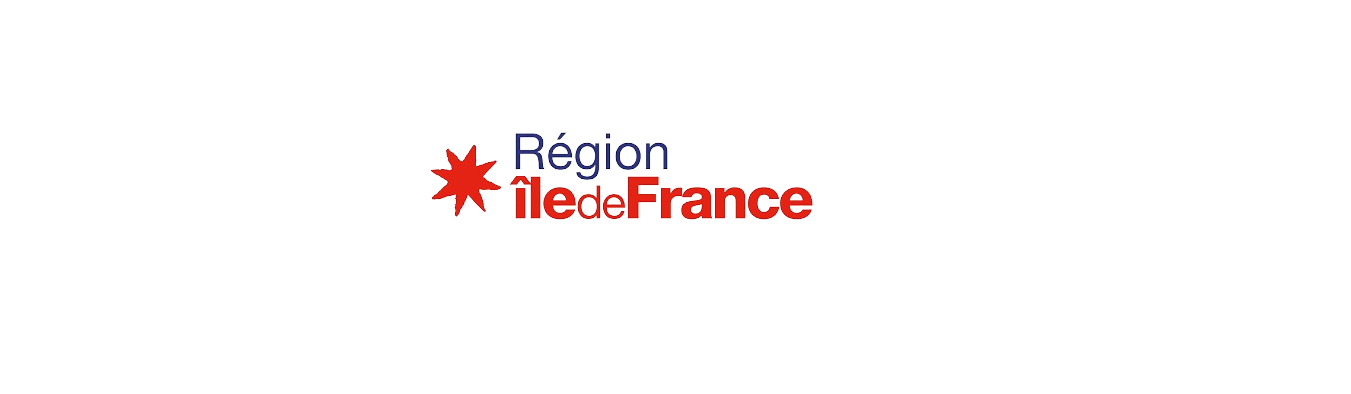
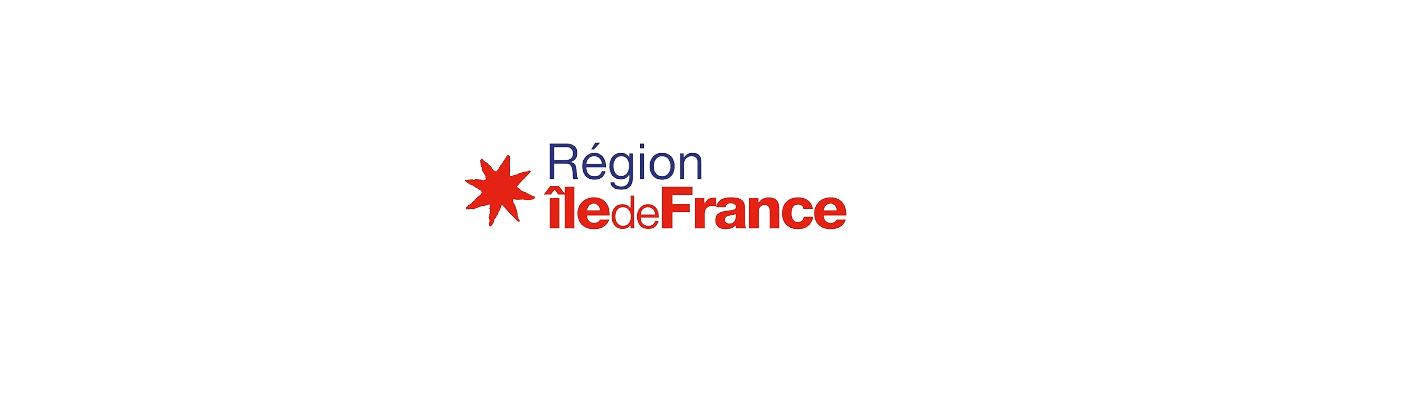
Partie Financement et partenaires

Changed region(s): [[0.3109, 0.335, 0.6218, 0.5787]]

diff --git a/index.html b/index.html
@@ -258,69 +258,78 @@
         <br></br>
     </div>
 </div>
-<div class="finance-paiement">
-    <div class="wrapper">
-        <h2 class="TitreFinancement">NOS FINANCEMENTS</h2>
+<div class="wrapper-container">
+    <div class="finance-paiement">
+        <div class="wrapper">
+            <h2>Nos Options de Financement</h2>
 
-        <ul class="carousel">
-            <li class="card">
-                <div class="img"><img src="./img/gallery/IMG_2230.png" alt="image CPF" draggable="false"></div>
-                <h2>Comptre formation</h2>
-            </li>
-            <li class="card">
-                <div class="img"><img src="./img/gallery/IMG_2231.png" alt="image pole emploi" draggable="false"></div>
-                <h2>Pôle emploi</h2>
-            </li>
-            <li class="card">
-                <div class="img"><img src="./img/gallery/IMG_2232.png" alt="image permis 1e/j" draggable="false"></div>
-                <h2>Permis 1€ par jour</h2>
-            </li>
-            <li class="card">
-                <div class="img"><img src="./img/gallery/IMG_2234.PNG" alt="image region idf" draggable="false"></div>
-                <h2>Région Île-de-France</h2>
-            </li>
-            <li class="card">
-                <div class="img"><img src="./img/gallery/IMG_2235.png" alt="image paiement 3x sans frais" draggable="false"></div>
-                <h2>Paiement 3x sans frais</h2>
-            </li>
-        </ul>
-        <i id="left" class="fa-solid fa-angle-left"></i>
-        <i id="right" class="fa-solid fa-angle-right"></i>
+            <ul class="carousel">
+                <li class="card">
+                    <div class="img"><img src="./img/gallery/IMG_2230.png" alt="image CPF" draggable="false"></div>
+                    <h2>Compte formation</h2>
+                </li>
+                <li class="card">
+                    <div class="img"><img src="./img/gallery/IMG_2231.png" alt="image pole emploi" draggable="false"></div>
+                    <h2>Pôle emploi</h2>
+                </li>
+                <li class="card">
+                    <div class="img"><img src="./img/gallery/IMG_2232.png" alt="image permis 1e/j" draggable="false"></div>
+                    <h2>Permis 1€ par jour</h2>
+                </li>
+                <li class="card">
+                    <div class="img"><img src="./img/gallery/logo-idf-2019.jpg.png" alt="image region idf" draggable="false"></div>
+                    <h2>Région Île-de-France</h2>
+                </li>
+                <li class="card">
+                    <div class="img"><img src="./img/gallery/IMG_2235.png" alt="image paiement 3x sans frais" draggable="false"></div>
+                    <h2>Paiement 3x sans frais</h2>
+                </li>
+            </ul>
+            <i id="left" class="fa-solid fa-angle-left"></i>
+            <i id="right" class="fa-solid fa-angle-right"></i>
+        </div>
+
+    </div>
+    <div class="partenaires">
+        <div class="wrapper">
+            <h2>Nos Partenaires</h2>
+
+            <ul class="carousel">
+                <li class="card">
+                    <div class="img"><img src="./img/gallery/peugeot-logo.png" alt="logo peugeot" draggable="false"></div>
+                    <h2>Peugeot</h2>
+                </li>
+                <li class="card">
+                    <div class="img"><img src="./img/gallery/BNP_Paribas.svg.png" alt="logo bnp" draggable="false"></div>
+                    <h2>BNP Paribas</h2>
+                </li>
+                <li class="card">
+                    <div class="img"><img src="./img/gallery/planete-permis-logo.png" alt="logo planete permis" draggable="false"></div>
+                    <h2>Planète Permis</h2>
+                </li>
+                <li class="card">
+                    <div class="img"><img src="./img/gallery/IMG_2225.PNG" alt="logo Ofracar" draggable="false"></div>
+                    <h2>OFRACAR Assurance</h2>
+                </li>
+                <li class="card">
+                    <div class="img"><img src="./img/gallery/Logo-AGX.png" alt="logo AGX" draggable="false"></div>
+                    <h2>AGX Informatique</h2>
+                </li>
+                <li class="card">
+                    <div class="img"><img src="./img/gallery/logo-citroen.png" alt="logo citroën" draggable="false"></div>
+                    <h2>Citroën</h2>
+                </li>
+                <li class="card">
+                    <div class="img"><img src="./img/gallery/logo_monceau.png" alt="logo Monceau" draggable="false"></div>
+                    <h2>Monceau Assurances</h2>
+                </li>
+            </ul>
+            <i id="left_bis" class="fa-solid fa-angle-left"></i>
+            <i id="right_bis" class="fa-solid fa-angle-right"></i>
+        </div>
+
     </div>
 
-</div>
-<div>
-    <h2 class="TitreFinancement">NOS PARTENAIRES</h2>
-    <ul class="carousel">
-        <li class="card">
-            <div class="img"><img src="./img/gallery/peugeot-logo.png" alt="image CPF" draggable="false"></div>
-            <h2>Peugeot</h2>
-        </li>
-        <li class="card">
-            <div class="img"><img src="./img/gallery/BNP_Paribas.svg.png" alt="image pole emploi" draggable="false"></div>
-            <h2>Pôle emploi</h2>
-        </li>
-        <li class="card">
-            <div class="img"><img src="./img/gallery/planete-permis-logo.png" alt="image permis 1e/j" draggable="false"></div>
-            <h2>Permis 1€ par jour</h2>
-        </li>
-        <li class="card">
-            <div class="img"><img src="./img/gallery/logo-citroen.png" alt="image region idf" draggable="false"></div>
-            <h2>Région Île-de-France</h2>
-        </li>
-        <li class="card">
-            <div class="img"><img src="./img/gallery/IMG_2225.PNG" alt="image paiement 3x sans frais" draggable="false"></div>
-            <h2>Paiement 3x sans frais</h2>
-        </li>
-        <li class="card">
-            <div class="img"><img src="./img/gallery/Logo-AGX.png" alt="image paiement 3x sans frais" draggable="false"></div>
-            <h2>Paiement 3x sans frais</h2>
-        </li>
-        <li class="card">
-            <div class="img"><img src="./img/gallery/logo_monceau.png" alt="image paiement 3x sans frais" draggable="false"></div>
-            <h2>Paiement 3x sans frais</h2>
-        </li>
-    </ul>
 </div>
 <div class="tiktokVideo">
     <h2 class="titretiktok">RETROUVEZ NOUS SUR LES RÉSEAUX SOCIAUX</h2>

diff --git a/js/carrousel.js b/js/carrousel.js
@@ -1,10 +1,11 @@
-const wrapper = document.querySelector(".wrapper");
-const carousel = document.querySelector(".carousel");
+// Carousel pour le premier élément
+const wrapper = document.querySelector(".finance-paiement .wrapper");
+const carousel = document.querySelector(".finance-paiement .carousel");
 const firstCardWidth = carousel.querySelector(".card").offsetWidth;
-const arrowBtns = document.querySelectorAll(".wrapper i");
+const arrowBtns = document.querySelectorAll(".finance-paiement .wrapper i");
 const carouselChildrens = [...carousel.children];
 
-let isDragging = false, isAutoPlay = true, startX, startScrollLeft, timeoutId;
+let isDragging = false, isAutoPlay = false, startX, startScrollLeft, timeoutId;
 
 // Get the number of cards that can fit in the carousel at once
 let cardPerView = Math.round(carousel.offsetWidth / firstCardWidth);
@@ -28,6 +29,38 @@ carousel.classList.remove("no-transition");
 arrowBtns.forEach(btn => {
     btn.addEventListener("click", () => {
         carousel.scrollLeft += btn.id == "left" ? -firstCardWidth : firstCardWidth;
+    });
+});
+
+// Carousel pour le deuxième élément
+const wrapperBis = document.querySelector(".partenaires .wrapper");
+const carouselBis = document.querySelector(".partenaires .carousel");
+const firstCardWidthBis = carouselBis.querySelector(".card").offsetWidth;
+const arrowBtnsBis = document.querySelectorAll(".partenaires .wrapper i");
+const carouselChildrensBis = [...carouselBis.children];
+
+// Get the number of cards that can fit in the carousel at once
+let cardPerViewBis = Math.round(carouselBis.offsetWidth / firstCardWidthBis);
+
+// Insert copies of the last few cards to beginning of carousel for infinite scrolling
+carouselChildrensBis.slice(-cardPerViewBis).reverse().forEach(card => {
+    carouselBis.insertAdjacentHTML("afterbegin", card.outerHTML);
+});
+
+// Insert copies of the first few cards to end of carousel for infinite scrolling
+carouselChildrensBis.slice(0, cardPerViewBis).forEach(card => {
+    carouselBis.insertAdjacentHTML("beforeend", card.outerHTML);
+});
+
+// Scroll the carousel at appropriate postition to hide first few duplicate cards on Firefox
+carouselBis.classList.add("no-transition");
+carouselBis.scrollLeft = carouselBis.offsetWidth;
+carouselBis.classList.remove("no-transition");
+
+// Add event listeners for the arrow buttons to scroll the carousel left and right
+arrowBtnsBis.forEach(btn => {
+    btn.addEventListener("click", () => {
+        carouselBis.scrollLeft += btn.id == "left_bis" ? -firstCardWidthBis : firstCardWidthBis;
     });
 });
 
@@ -82,3 +115,10 @@ document.addEventListener("mouseup", dragStop);
 carousel.addEventListener("scroll", infiniteScroll);
 wrapper.addEventListener("mouseenter", () => clearTimeout(timeoutId));
 wrapper.addEventListener("mouseleave", autoPlay);
+
+carouselBis.addEventListener("mousedown", dragStart);
+carouselBis.addEventListener("mousemove", dragging);
+document.addEventListener("mouseup", dragStop);
+carouselBis.addEventListener("scroll", infiniteScroll);
+wrapperBis.addEventListener("mouseenter", () => clearTimeout(timeoutId));
+wrapperBis.addEventListener("mouseleave", autoPlay);

diff --git a/style.css b/style.css
@@ -768,12 +768,31 @@ button:hover {
 
 
 
-.finance-paiement {
-    display: flex;        /* Nouveau */
-    justify-content: center; /* Nouveau */
-    align-items: center;  /* Nouveau si vous voulez également centrer verticalement */
-    background-color: #f1f1f1;
-    height: 100vh;       /* Nouveau pour s'assurer que finance-paiement prend toute la hauteur de la fenêtre */
+
+
+
+
+
+
+
+
+
+
+
+
+
+.wrapper-container {
+    background-color: #ddd; /* Définir la couleur de fond */
+    padding-top: 1%;
+    padding-bottom: 1%;
+}
+
+
+.finance-paiement .partenaires {
+    display: flex;
+    justify-content: center;
+    align-items: center;
+    height: 100vh;
 }
 
 .wrapper {
@@ -792,7 +811,6 @@ button:hover {
     position: absolute;
     text-align: center;
     line-height: 50px;
-    background: #fff;
     border-radius: 50%;
     box-shadow: 0 3px 6px rgba(0,0,0,0.23);
     transform: translateY(-50%);
@@ -865,7 +883,6 @@ button:hover {
     margin: 30px 0 5px;
 }
 .carousel .card span {
-    color: #6A6D78;
     font-size: 1.31rem;
 }
 
@@ -890,14 +907,8 @@ button:hover {
     margin-left: 60px;
 }
 
-.TitreFinancement {
+.wrapper-container h2 {
     margin-top: 30px;
     text-align: center;
     margin-bottom: 30px;
 }
-
-
-
-
-
-
